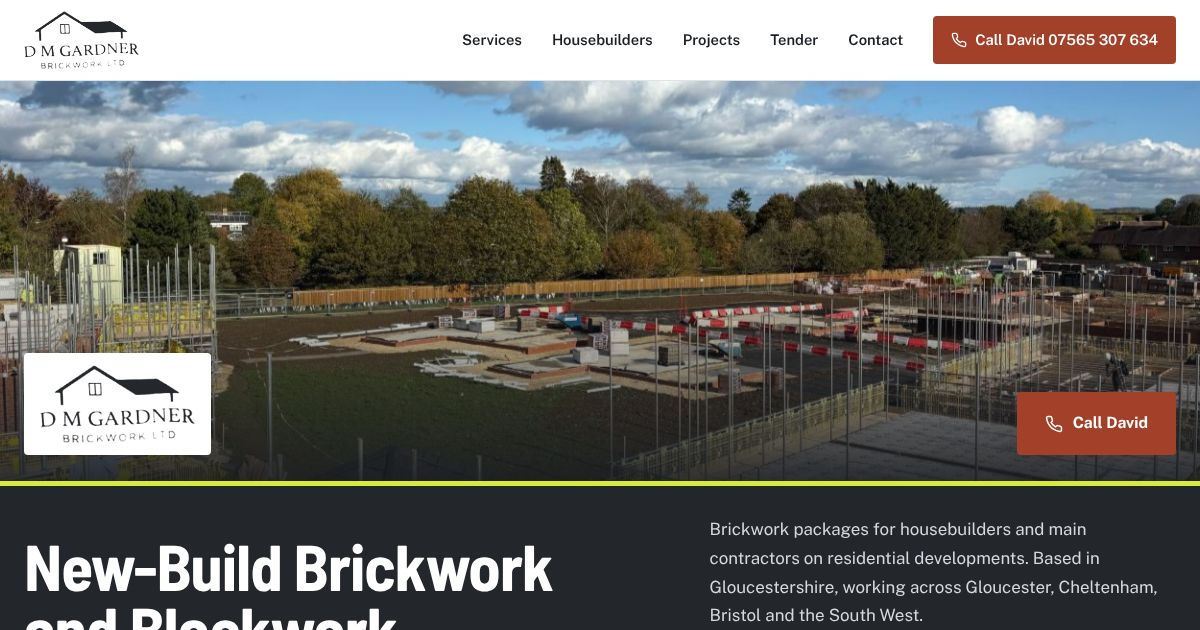
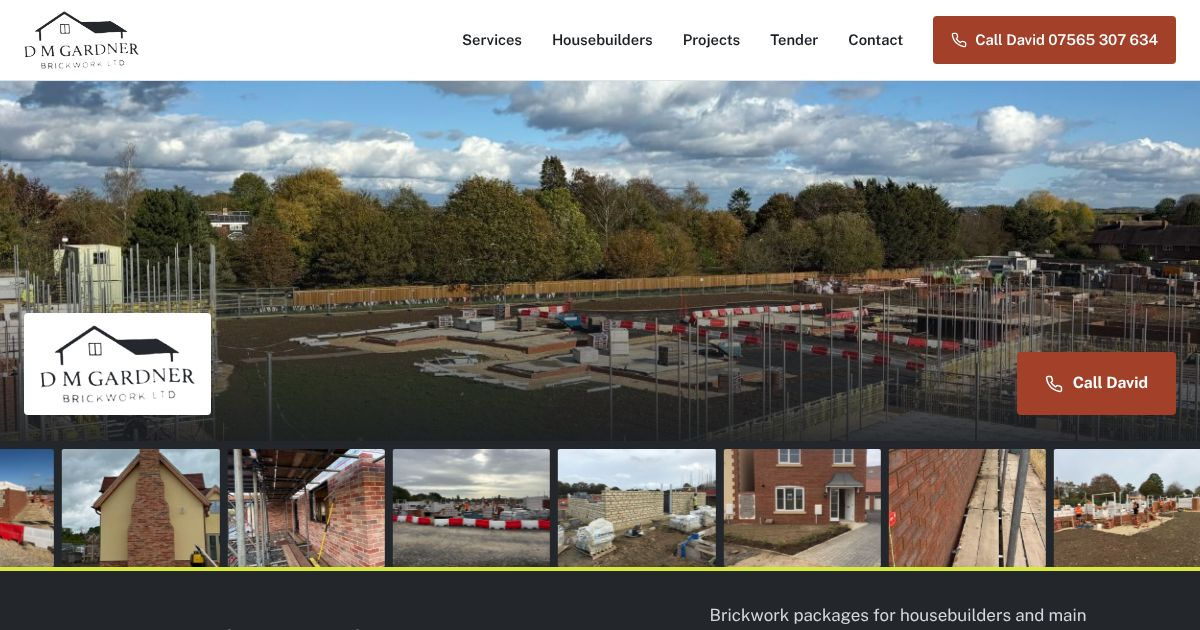
DM Gardner Brickwork B: marquee hero and photo stack
B motion re-rolled after Lumen Electrical B and Top1 B took parallax and draw-svg mid-build: job photo strip runs under the full bleed site photo, specialist jobs fan out of a stack in the about panel. Ledger B entry updated, and the jk-roofing-b entry that came back with the previous publish is removed again (its folder was removed when A was chosen).

diff --git a/dm-gardner-brickwork-b/index.html b/dm-gardner-brickwork-b/index.html
@@ -123,10 +123,10 @@ body.go .wall .t img{transform:scale(1)}
 @keyframes lay{0%{opacity:0;transform:translateY(-34px)}70%{opacity:1;transform:translateY(2px)}100%{opacity:1;transform:none}}
 
 
-/* B hero: full bleed photo first, parallax */
+/* B hero: full bleed photo first, job strip running under it */
 .bh{display:flex;flex-direction:column;padding:0}
-.bh-photo{position:relative;height:calc(100vh - var(--navh) - 150px);height:calc(100svh - var(--navh) - 150px);min-height:360px;overflow:hidden;background:var(--char)}
-.bh-par{position:absolute;left:0;right:0;top:-14%;height:118%;will-change:transform}
+.bh-photo{position:relative;height:calc(100vh - var(--navh) - 210px);height:calc(100svh - var(--navh) - 210px);min-height:360px;overflow:hidden;background:var(--char)}
+.bh-par{position:absolute;inset:0}
 .bh-par picture{display:block;width:100%;height:100%}
 .bh-par img{width:100%;height:100%;object-fit:cover;transform:scale(1.16);transform-origin:50% 40%}
 body.go .bh-par img{animation:push 2.4s cubic-bezier(.2,.6,.2,1) forwards,drift 18s 2.4s ease-in-out infinite alternate}
@@ -138,7 +138,7 @@ body.go .bh-over{animation:up .7s .3s cubic-bezier(.2,.7,.2,1) forwards}
 .bh-plate{background:#fff;border-radius:4px;padding:12px 16px}
 .bh-plate img{height:78px;width:auto}
 .bh-panel{background:var(--char);color:#d5d9dd;padding-top:34px;padding-bottom:54px;position:relative;z-index:3}
-.bh-panel::before{content:"";position:absolute;left:0;right:0;top:0;height:5px;background:var(--vis);transform-origin:left;transform:scaleX(0)}
+.bh-panel::before{content:"";position:absolute;left:0;right:0;top:0;height:4px;background:var(--vis);transform-origin:left;transform:scaleX(0)}
 body.go .bh-panel::before{animation:grow 1s .5s ease forwards}
 @keyframes grow{to{transform:none}}
 .bh-grid{display:grid;grid-template-columns:1.35fr 1fr;gap:56px;align-items:end}
@@ -148,11 +148,19 @@ body.go .bh-panel::before{animation:grow 1s .5s ease forwards}
 .bh-grid>*{opacity:0;transform:translateY(24px)}
 body.go .bh-grid>*{animation:up .8s .15s cubic-bezier(.2,.7,.2,1) forwards}
 body.go .bh-grid>*:nth-child(2){animation-delay:.3s}
-/* draw-svg */
-.draw{width:340px;height:auto}
-.draw path{stroke-dasharray:1;stroke-dashoffset:1}
-.draw .vis{stroke:var(--vis)}
-.draw .cl{stroke:var(--clay-l);stroke-width:1.4}
+/* marquee strip of their jobs */
+.bh-strip{background:var(--char);overflow:hidden;padding-top:8px;position:relative;z-index:3}
+.bh-strip .track{display:flex;gap:8px;width:max-content;animation:mq 46s linear infinite}
+.bh-strip img{height:118px;width:auto;aspect-ratio:4/3;object-fit:cover;border-radius:2px;flex:none}
+.bh-strip:hover .track,.bh-strip.paused .track{animation-play-state:paused}
+@keyframes mq{to{transform:translateX(-50%)}}
+/* photo-stack */
+.stack{position:relative;width:340px;height:250px}
+.stack img{position:absolute;left:50%;top:50%;width:190px;height:200px;object-fit:cover;border:6px solid #fff;border-radius:3px;box-shadow:0 18px 34px -16px rgba(0,0,0,.6);transform:translate(-50%,-50%) rotate(var(--r0));transition:transform .9s cubic-bezier(.2,.7,.2,1)}
+.stack .p1{--r0:-3deg}.stack .p2{--r0:2deg}.stack .p3{--r0:-1deg;z-index:2}
+.stack.fan .p1{transform:translate(-112%,-48%) rotate(-9deg)}
+.stack.fan .p2{transform:translate(12%,-48%) rotate(8deg)}
+.stack.fan .p3{transform:translate(-50%,-54%) rotate(0deg);transition-delay:.12s}
 /* trade moment: courses laid to gauge */
 .gauge{margin:-18px 0 40px}
 .gauge svg{width:100%;max-width:640px;height:auto;display:block}
@@ -312,14 +320,20 @@ footer{background:var(--char2);color:#a9b0b7;padding-top:64px;padding-bottom:28p
   .svc{padding-top:64px}
   .svc-grid,.rv-grid,.hb-grid,.areas-in,.tender-in,.ct-grid,.ft-grid{grid-template-columns:1fr}
   .hb-grid,.areas-in,.tender-in,.ct-grid{gap:36px}
-  .bh-photo{height:calc(100vh - var(--navh) - 118px);height:calc(100svh - var(--navh) - 118px)}
+  .bh-photo{height:calc(100vh - var(--navh) - 168px);height:calc(100svh - var(--navh) - 168px)}
+  .bh-strip img{height:84px}
+  .bh-strip{padding-top:6px}
+  .bh-strip .track{gap:6px}
+  .stack{width:100%;max-width:330px;height:220px}
+  .stack img{width:150px;height:170px}
+  .stack.fan .p1{transform:translate(-98%,-48%) rotate(-8deg)}
+  .stack.fan .p2{transform:translate(-2%,-48%) rotate(7deg)}
   .bh-plate img{height:54px}
   .bh-plate{padding:9px 12px}
   .bh-over{bottom:20px}
   .bh-grid{grid-template-columns:1fr;gap:18px}
   .bh h1{font-size:clamp(2.3rem,10.4vw,3.4rem)}
   .bh-panel{padding-top:28px;padding-bottom:40px}
-  .draw{width:100%;max-width:340px}
   .gauge{margin:-24px 0 30px}
   .about-in{grid-template-columns:1fr;gap:28px}
   .about-mark{justify-self:start;padding:18px 22px}
@@ -343,7 +357,8 @@ footer{background:var(--char2);color:#a9b0b7;padding-top:64px;padding-bottom:28p
 }
 @media (prefers-reduced-motion:reduce){
   .bh-par img,.bh-over,.bh-grid>*,.bh-panel::before,.gauge .bk{opacity:1!important;transform:none!important}
-  .draw path{stroke-dashoffset:0!important}
+  .bh-strip .track{animation:none!important}
+  .stack img{transition:none!important}
   *{animation-duration:.01s!important;animation-delay:0s!important;transition:none!important}
   .hero-copy>*,.wall .t,.reveal{opacity:1!important;transform:none!important}
   .wall .t img{transform:none!important}
@@ -389,6 +404,7 @@ footer{background:var(--char2);color:#a9b0b7;padding-top:64px;padding-bottom:28p
       <a href="#" class="btn btn-clay bh-call js-phone-fab" data-p="MDc1NjUzMDc2MzQ="><svg viewBox="0 0 24 24" fill="none" stroke="currentColor" stroke-width="2" stroke-linecap="round" stroke-linejoin="round"><path d="M22 16.9v3a2 2 0 0 1-2.2 2 19.8 19.8 0 0 1-8.6-3.1 19.5 19.5 0 0 1-6-6A19.8 19.8 0 0 1 2.1 4.2 2 2 0 0 1 4.1 2h3a2 2 0 0 1 2 1.7c.1 1 .4 1.9.7 2.8a2 2 0 0 1-.5 2.1L8 9.9a16 16 0 0 0 6 6l1.3-1.3a2 2 0 0 1 2.1-.4c.9.3 1.8.6 2.8.7a2 2 0 0 1 1.7 2z"/></svg>Call David</a>
     </div>
   </div>
+  <div class="bh-strip" id="strip" aria-hidden="true"><div class="track"><img src="plots-blue-sky.jpg" alt=""><img src="feature-chimney.jpg" alt=""><img src="brick-scaffold-run.jpg" alt=""><img src="site-wide.jpg" alt=""><img src="stone-walling.jpg" alt=""><img src="finished-house.jpg" alt=""><img src="facing-brick-scaffold.jpg" alt=""><img src="walls-going-up.jpg" alt=""><img src="plots-blue-sky.jpg" alt=""><img src="feature-chimney.jpg" alt=""><img src="brick-scaffold-run.jpg" alt=""><img src="site-wide.jpg" alt=""><img src="stone-walling.jpg" alt=""><img src="finished-house.jpg" alt=""><img src="facing-brick-scaffold.jpg" alt=""><img src="walls-going-up.jpg" alt=""></div></div>
   <div class="bh-panel">
     <div class="wrap bh-grid">
       <h1>New-Build Brickwork and Blockwork Contractors in <span class="acc">Gloucestershire</span></h1>
@@ -427,17 +443,9 @@ footer{background:var(--char2);color:#a9b0b7;padding-top:64px;padding-bottom:28p
 
 <section class="about" id="about">
   <div class="about-in wrap reveal">
-    <svg class="draw" id="draw" viewBox="0 0 420 260" fill="none" stroke="#fff" stroke-width="2.4" stroke-linecap="round" stroke-linejoin="round" aria-hidden="true">
-      <path pathLength="1" d="M10 250H410"/>
-      <path pathLength="1" d="M40 250V120L120 56L200 120V250"/>
-      <path pathLength="1" d="M220 250V120L300 56L380 120V250"/>
-      <path pathLength="1" d="M200 120V250M220 120H200"/>
-      <path pathLength="1" d="M28 128L120 54L212 128M208 128L300 54L392 128"/>
-      <path pathLength="1" class="vis" d="M150 80V36H170V96"/>
-      <path pathLength="1" d="M62 140h40v34h-40zM138 140h40v34h-40zM242 140h40v34h-40zM318 140h40v34h-40z"/>
-      <path pathLength="1" d="M66 250V198h30v52M138 196h40v34h-40zM242 196h40v34h-40zM324 250V198h30v52"/>
-      <path pathLength="1" class="cl" d="M40 186H200M220 186H380M40 232H200M220 232H380"/>
-    </svg>
+    <div class="stack" id="stack" aria-hidden="true">
+      <img class="p1" src="brick-inglenook.jpg" alt="" loading="lazy"><img class="p2" src="stone-walling.jpg" alt="" loading="lazy"><img class="p3" src="feature-chimney.jpg" alt="" loading="lazy">
+    </div>
     <div>
       <h2>About DM Gardner Brickwork</h2><span class="vis"></span>
       <p>DM Gardner Brickwork Ltd is a Gloucestershire bricklaying contractor run by David Gardner. The business specialises in new-build housing: brick and block packages on active development sites, taking each plot up course by course and working to the programme set by the site team.</p>
@@ -582,15 +590,10 @@ footer{background:var(--char2);color:#a9b0b7;padding-top:64px;padding-bottom:28p
   setTimeout(start,rm?300:2000);setTimeout(start,2450);
 
 
-  /* parallax: the photo travels slower than the page */
-  var par=document.getElementById('par'),bp=document.getElementById('bhPhoto'),tick=false;
-  function px(){tick=false;var y=window.scrollY,h=bp.offsetHeight;if(y<h+200)par.style.transform='translate3d(0,'+(y*0.42).toFixed(1)+'px,0)';}
-  if(!rm){window.addEventListener('scroll',function(){if(!tick){tick=true;requestAnimationFrame(px);}},{passive:true});}
-  /* draw-svg: the pair of houses traces itself in with scroll */
-  var dr=document.getElementById('draw'),dps=dr.querySelectorAll('path'),dt=false;
-  function draw(){dt=false;var r=dr.getBoundingClientRect(),vh=window.innerHeight,p=Math.min(1,Math.max(0,(vh-r.top)/(vh*0.75)));
-    dps.forEach(function(e,i){var n=dps.length,a=i/n*0.7,q=Math.min(1,Math.max(0,(p-a)/0.3));e.style.strokeDashoffset=(1-q).toFixed(3);});}
-  if(rm){dps.forEach(function(e){e.style.strokeDashoffset=0;});}else{window.addEventListener('scroll',function(){if(!dt){dt=true;requestAnimationFrame(draw);}},{passive:true});draw();}
+  /* marquee: pause on touch */
+  var mq=document.getElementById('strip');mq.addEventListener('touchstart',function(){mq.classList.toggle('paused');},{passive:true});
+  /* photo-stack: their work fans out of a stack as the about panel scrolls in */
+  var st=document.getElementById('stack');new IntersectionObserver(function(es,ob){if(es[0].isIntersecting){st.classList.add('fan');ob.disconnect();}},{threshold:.45}).observe(st);
   /* trade moment: courses laid to gauge, bottom course first */
   var g=document.getElementById('gauge'),gs=document.getElementById('gaugeSvg'),C=['#a3402a','#8d3622','#b5512f','#9a3b25','#ad4a2c'],o='<rect x="4" y="2" width="16" height="116" rx="2" fill="#c8a06a"/>',k=0;
   for(var r=0;r<4;r++){var y=118-(r+1)*28+2,off=r%2?-34:0;o+='<rect class="tk" x="20" y="'+(y+24)+'" width="10" height="3" style="transition-delay:'+(r*0.34+0.3).toFixed(2)+'s"/>';
